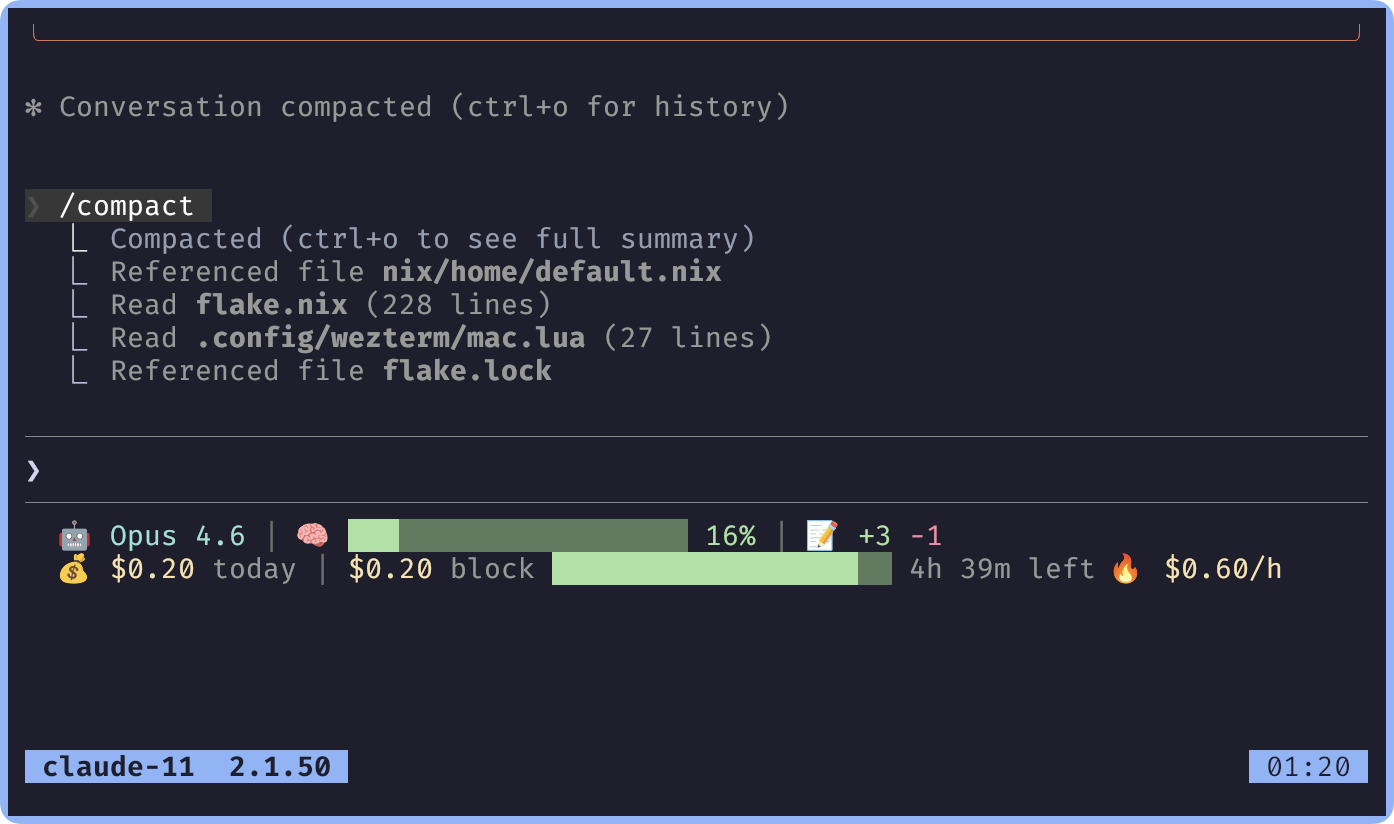
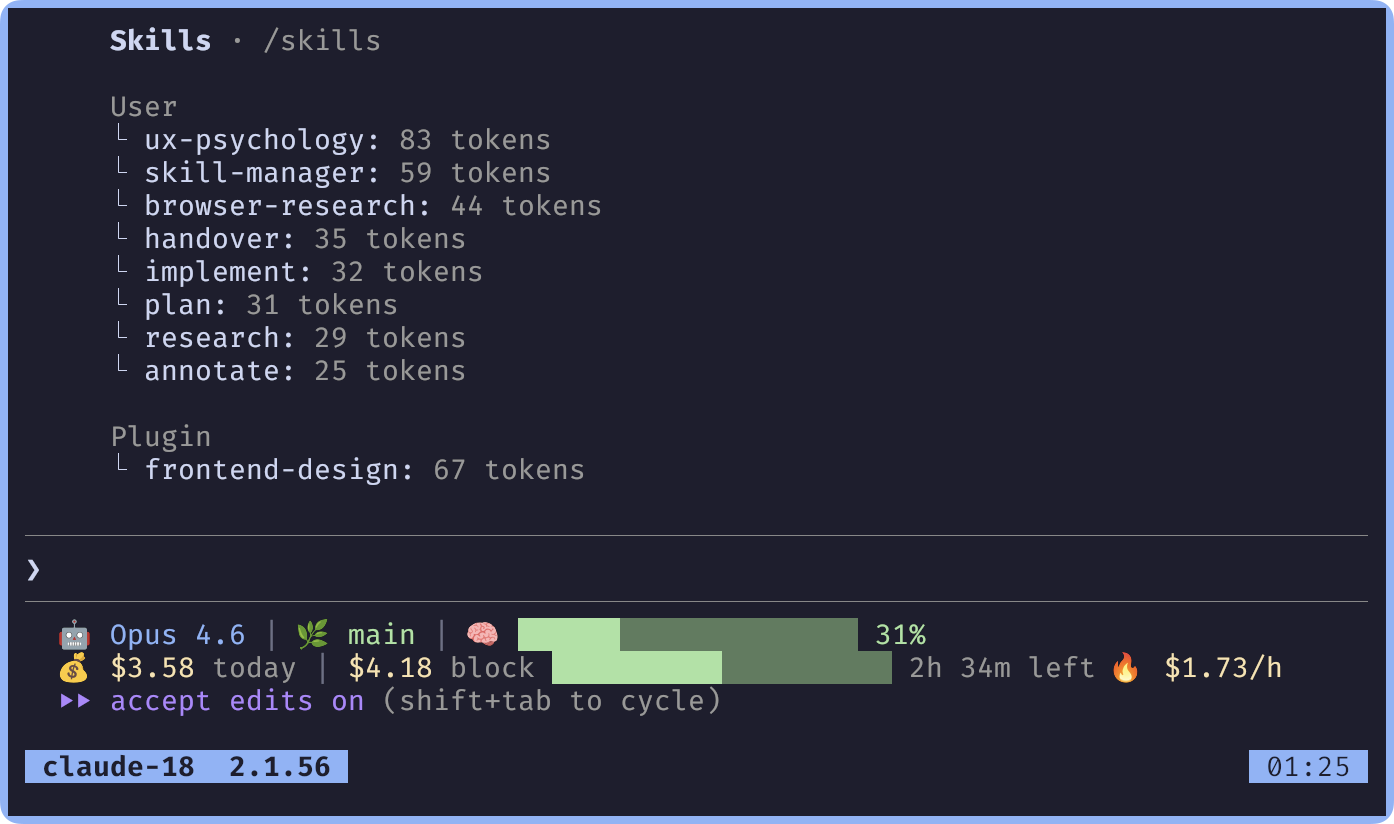
fix(cc-statusline): fix config dir path and update docs
- Fix config directory from ~/.config/claude to ~/.claude
- Update readme with theme configuration and color overrides
- Fix fallback output format
- Update screenshot

diff --git a/tools/cc-statusline/README.md b/tools/cc-statusline/README.md
@@ -6,10 +6,11 @@ A fast statusline for [Claude Code](https://docs.anthropic.com/en/docs/claude-co
 
 ## Features
 
-- **Model & Context** — Current model name, context window usage with progress bar, lines added/removed
-- **Cost Tracking** — Today's total cost, current block cost with remaining time, burn rate per hour
-- **Smart Caching** — Binary cache with 30s TTL and incremental diff parsing for near-zero overhead
-- **Pricing** — Supports Opus 4.6/4.5/4.1/4, Sonnet 4.6/4.5/4.2/4/3.7/3.5, Haiku 4.5/3.5 (including 200K+ tiered pricing)
+- **Model & Context** — Current model name, git branch, context window usage with color-coded progress bar (green → yellow → red)
+- **Cost Tracking** — Today's total cost, current block cost (5h window) with remaining time, burn rate per hour
+- **Smart Caching** — Two-tier binary cache (30s result TTL, 5m file list TTL) with incremental diff parsing for near-zero overhead
+- **Pricing** — Supports Opus 4.6/4.5/4.1/4/3, Sonnet 4.6/4.5/4.2/4/3.7/3.5, Haiku 4.5/3.5 (including 200K+ tiered pricing)
+- **Theming** — Built-in Catppuccin Mocha theme, fully customizable via environment variables
 
 ## Requirements
 
@@ -28,7 +29,7 @@ The binary is output to `zig-out/bin/cc-statusline`.
 cc-statusline reads Claude Code's statusline JSON from stdin and outputs a 2-line ANSI-colored status:
 
 ```
-🤖 Opus 4.6 | 🧠 ████████████░░░░░░░░ 60% | 📝 +3 -1
+🤖 Opus 4.6 | 🌿 main | 🧠 ████████████░░░░░░░░ 60%
 💰 $0.20 today | $0.20 block ██████████████░░░░░░ 4h 39m left 🔥 $0.60/h
 ```
 
@@ -42,6 +43,38 @@ Add to `~/.config/claude/settings.json`:
     "command": "/path/to/cc-statusline"
   }
 }
+```
+
+## Configuration
+
+### Theme
+
+Set `CC_STATUSLINE_THEME` to use a built-in theme:
+
+```sh
+export CC_STATUSLINE_THEME=catppuccin-mocha
+```
+
+### Color Overrides
+
+Override individual colors with ANSI escape sequences:
+
+| Variable | Description | Default |
+|---|---|---|
+| `CC_STATUSLINE_COLOR_MODEL` | Model name color | Cyan |
+| `CC_STATUSLINE_COLOR_GREEN` | Low context usage | Green |
+| `CC_STATUSLINE_COLOR_YELLOW` | Medium context usage | Yellow |
+| `CC_STATUSLINE_COLOR_RED` | High context usage | Red |
+| `CC_STATUSLINE_COLOR_DIM` | Separators and labels | Dim |
+| `CC_STATUSLINE_BAR_FILLED` | Filled bar character | `█` |
+| `CC_STATUSLINE_BAR_EMPTY` | Empty bar character | `░` |
+
+### Config Directory
+
+By default, cc-statusline reads from `~/.claude`. Override with:
+
+```sh
+export CLAUDE_CONFIG_DIR=/path/to/config
 ```
 
 ## Test